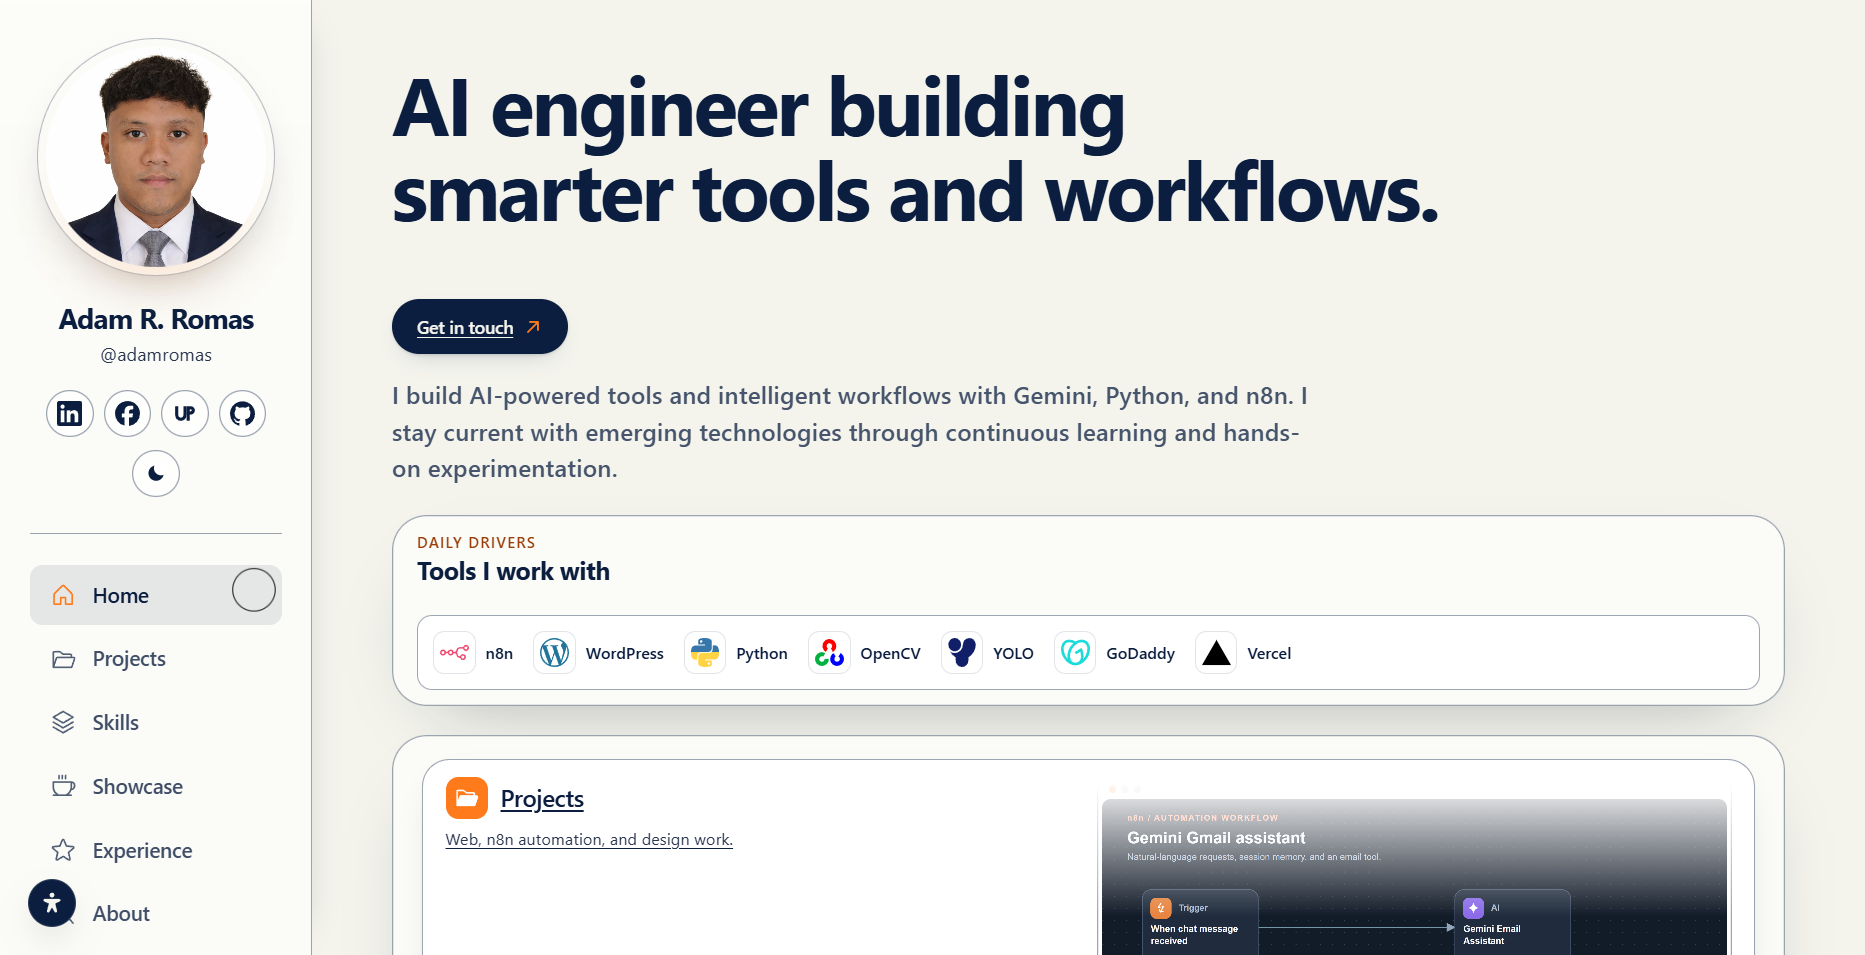
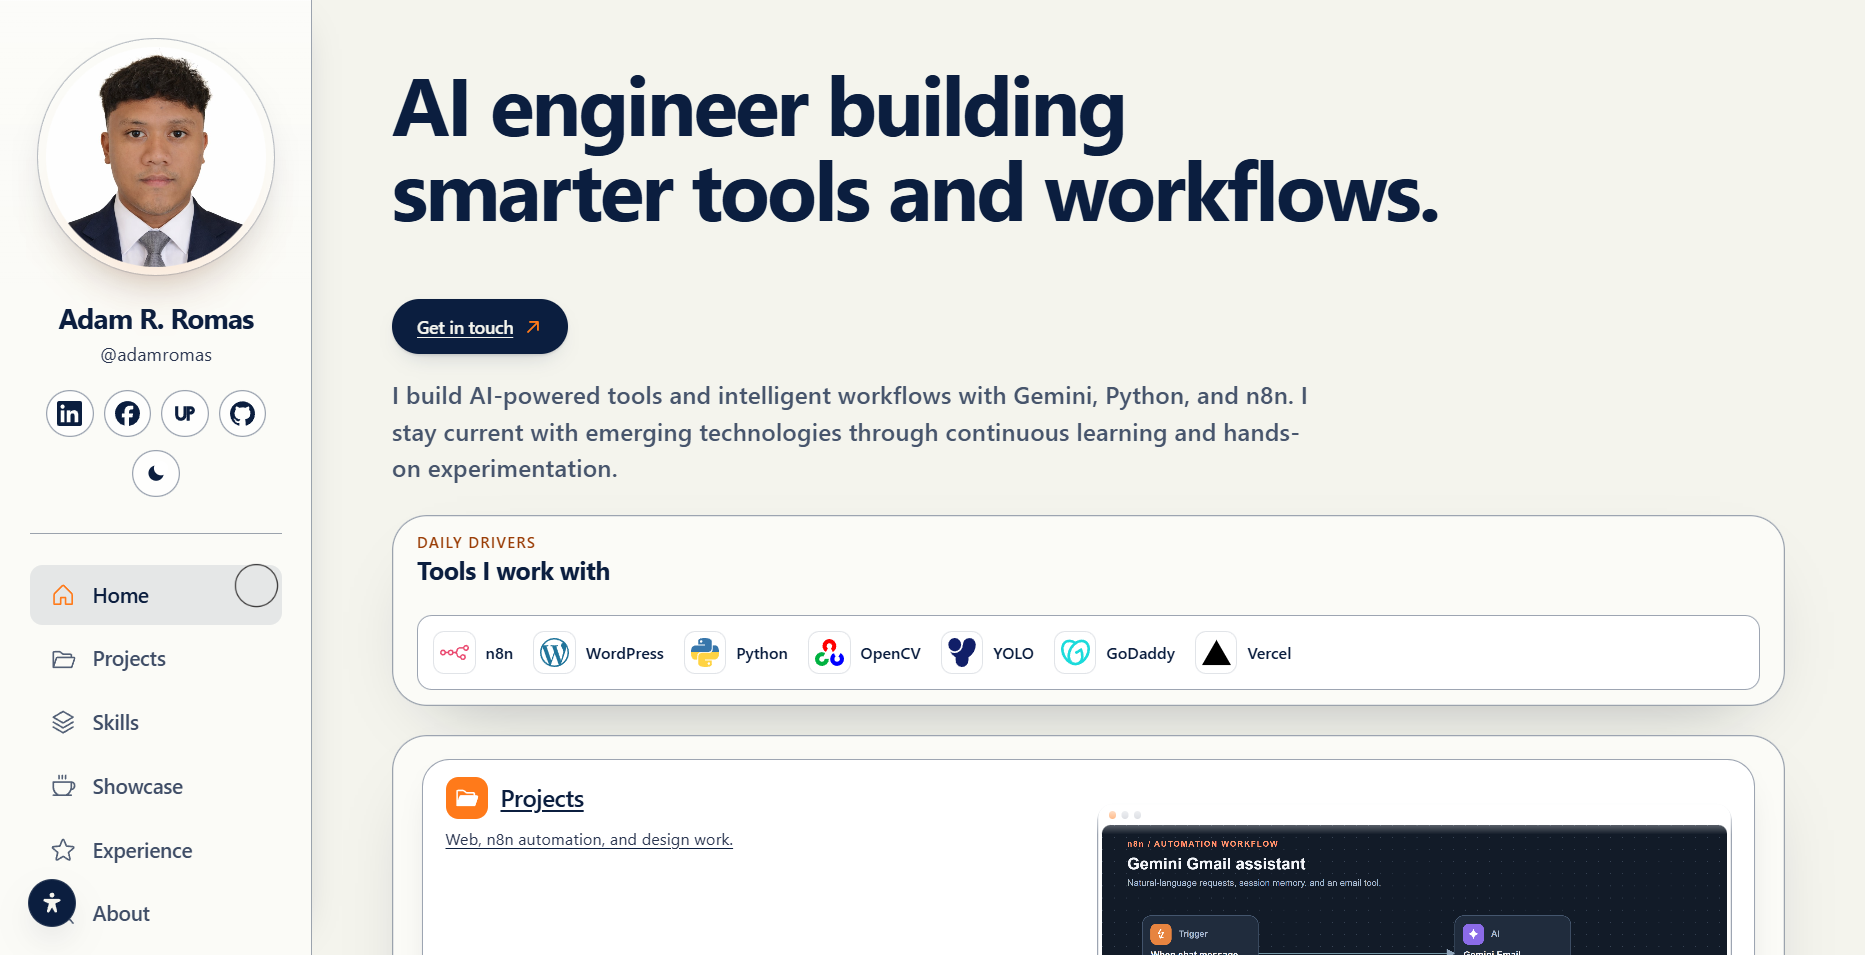
Redesign About as Japanese-inspired bento and compact Home cards

Changed region(s): [[0.5909, 0.8199, 0.933, 1.0], [0.1244, 0.577, 0.1555, 0.6377]]

diff --git a/src/styles/about-bento.css b/src/styles/about-bento.css
@@ -1,0 +1,86 @@
+/* Warm paper, quiet ink, a small vermilion seal, and content-sized compartments. */
+.about-page { display: flex; height: auto; min-height: 100%; }
+.about-bento { display: grid; grid-template-columns: repeat(6, minmax(0, 1fr)); gap: 18px; align-items: stretch; }
+.about-card {
+  position: relative;
+  min-width: 0;
+  margin: 0;
+  padding: clamp(20px, 2.1vw, 32px);
+  border: 1px solid var(--line);
+  border-radius: 22px;
+  background: var(--surface-card);
+  color: var(--navy);
+  box-shadow: 0 12px 32px -24px rgba(6, 12, 26, .35);
+  display: flex;
+  flex-direction: column;
+  align-items: flex-start;
+  gap: 14px;
+  overflow-wrap: anywhere;
+}
+.about-card__label { display: flex; align-items: center; justify-content: space-between; gap: 16px; width: 100%; font-size: 11px; font-weight: 600; letter-spacing: .08em; text-transform: uppercase; color: var(--orange-ink); }
+.about-card h2 { font-size: clamp(20px, 1.5vw, 27px); line-height: 1.3; letter-spacing: -.025em; }
+.about-card p { margin: 0; font-size: 14px; line-height: 1.75; color: var(--muted); }
+.about-card--intro { grid-column: span 4; background: linear-gradient(135deg, var(--surface-card), var(--surface-glass)); }
+.about-card .about-intro__title { max-width: 25ch; font-size: clamp(28px, 2.5vw, 44px); line-height: 1.13; }
+.about-intro__body { max-width: 70ch; }
+.about-stamp { display: grid; place-items: center; flex: none; width: 36px; height: 36px; border: 1px solid #B84938; border-radius: 9px; color: #B84938; font-size: 24px; font-weight: 500; line-height: 1; }
+[data-theme='dark'] .about-stamp { color: #FF9D86; border-color: #FF9D86; }
+.about-card__actions { display: flex; flex-wrap: wrap; align-items: center; gap: 16px; padding-top: 4px; }
+.about-action, .about-text-link { display: inline-flex; align-items: center; justify-content: center; gap: 8px; font-size: 13px; font-weight: 600; text-decoration: none; color: var(--navy); }
+.about-action { min-height: 44px; padding: 10px 16px; border: 1px solid var(--line-strong); border-radius: 12px; background: var(--surface-card); }
+.about-action:hover, .about-text-link:hover { color: var(--orange-ink); border-color: var(--orange); }
+.about-action:focus-visible, .about-text-link:focus-visible { outline: 2px solid var(--orange); outline-offset: 3px; }
+.about-card--portrait { grid-column: span 2; grid-row: span 2; justify-content: center; gap: 20px; }
+.about-portrait__frame { width: 100%; display: grid; place-items: center; padding: 12px; border-radius: 16px; background: radial-gradient(ellipse at bottom right, rgba(255, 122, 26, .12), transparent 70%), var(--tint); }
+.about-portrait__frame img { display: block; width: 100%; max-width: 240px; height: auto; max-height: 360px; object-fit: contain; border-radius: 12px; border: 4px solid var(--paper); }
+.about-card--portrait figcaption { display: flex; flex-direction: column; gap: 7px; font-size: 13px; color: var(--muted); }
+.about-card--portrait figcaption strong { color: var(--navy); font-size: 18px; }
+.about-portrait__location { display: flex; align-items: center; gap: 5px; font-size: 11px; }
+.about-card--focus, .about-card--education, .about-card--credentials { grid-column: span 2; }
+.about-card--education { background: linear-gradient(145deg, var(--surface-card), color-mix(in srgb, var(--cream) 95%, var(--orange))); }
+.about-tool-row { display: flex; flex-wrap: wrap; align-items: center; gap: 8px; margin-top: auto; padding-top: 8px; }
+.about-tool { display: grid; place-items: center; width: 36px; height: 36px; border: 1px solid rgba(11, 30, 63, .13); border-radius: 10px; background: #fff; }
+.about-tool-row__note { flex-basis: 100%; color: var(--muted); font-size: 11px; padding-top: 3px; }
+.about-card__symbol { color: var(--orange-ink); }
+.about-facts { display: flex; flex-wrap: wrap; gap: 8px 14px; font-size: 12px; color: var(--muted); }
+.about-facts strong { color: var(--navy); }
+.about-card__note { color: var(--orange-ink); font-size: 12px; }
+.about-card--skills { grid-column: span 4; }
+.about-capabilities { display: grid; grid-template-columns: repeat(2, minmax(0, 1fr)); gap: 18px; list-style: none; padding: 0; margin: 2px 0 0; width: 100%; }
+.about-capabilities li { display: flex; align-items: flex-start; gap: 10px; min-width: 0; }
+.about-capability__icon { flex: none; color: var(--orange-ink); padding-top: 3px; }
+.about-capabilities li > span:last-child { display: flex; flex-direction: column; gap: 5px; }
+.about-capabilities strong { font-size: 13px; line-height: 1.5; }
+.about-capabilities li > span > span { font-size: 12px; line-height: 1.6; color: var(--muted); }
+.about-certificates { list-style: none; padding: 0; margin: 0; display: flex; flex-direction: column; gap: 14px; }
+.about-certificates li { display: flex; align-items: flex-start; gap: 8px; font-size: 12px; line-height: 1.65; color: var(--muted); }
+.about-certificates svg { flex: none; color: var(--orange-ink); margin-top: 2px; }
+.about-card--connect { grid-column: 1 / -1; flex-direction: row; align-items: center; justify-content: space-between; gap: 20px; }
+.about-card--connect h2 { margin-top: 8px; }
+
+/* A bounded reel keeps its siblings from stretching to the full image stack. */
+.home .bento__reel { flex: none; height: 210px; min-height: 0; max-height: 240px; align-self: center; }
+.home .bento__reviews { flex: none; height: 180px; min-height: 0; align-self: center; }
+.home .bento__fan { align-content: center; gap: 12px; }
+.bento__portrait-note { grid-row: 2; color: var(--muted); font-size: 11px; text-align: center; line-height: 1.5; }
+.bento__contact-mark { color: var(--orange-ink); }
+.bento__contact-note { font-size: 12px; color: var(--muted); text-align: center; }
+.home .bento__desc { overflow-wrap: anywhere; }
+
+@media (max-width: 1199px) {
+  .about-bento { grid-template-columns: repeat(2, minmax(0, 1fr)); }
+  .about-card--intro, .about-card--skills { grid-column: span 2; }
+  .about-card--portrait { grid-column: span 1; grid-row: span 2; }
+  .about-card--focus, .about-card--education { grid-column: span 1; }
+  .about-card--credentials { grid-column: span 2; }
+}
+:root[data-a11y-text] .about-bento { grid-template-columns: repeat(2, minmax(0, 1fr)); }
+:root[data-a11y-text] .about-card--intro, :root[data-a11y-text] .about-card--skills { grid-column: span 2; }
+:root[data-a11y-text] .about-card--portrait, :root[data-a11y-text] .about-card--focus, :root[data-a11y-text] .about-card--education { grid-column: span 1; }
+:root[data-a11y-text] .about-card--credentials { grid-column: span 2; }
+@media (max-width: 639px) {
+  .about-bento, :root[data-a11y-text] .about-bento { grid-template-columns: minmax(0, 1fr); gap: 14px; }
+  .about-bento .about-card, :root[data-a11y-text] .about-bento .about-card { grid-column: 1; grid-row: auto; }
+  .about-capabilities { grid-template-columns: minmax(0, 1fr); }
+  .about-card--connect { flex-direction: column; align-items: flex-start; }
+}

diff --git a/src/components/AboutBento.tsx b/src/components/AboutBento.tsx
@@ -1,0 +1,87 @@
+import { Link } from 'react-router-dom'
+import { ArrowUpRight, Code, FlowArrow, GraduationCap, MapPin, Robot, SealCheck, Wrench } from '@/components/slab'
+import { profile } from '@/data/profile'
+import PageBack from './PageBack'
+
+const capabilities = [
+  { title: 'AI & computer vision', detail: 'Gemini · Python · OpenCV · YOLO', Icon: Robot },
+  { title: 'Workflow automation', detail: 'n8n · Gmail · Google Sheets · Drive', Icon: FlowArrow },
+  { title: 'Web & deployment', detail: 'WordPress · GoDaddy · Vercel', Icon: Code },
+  { title: 'IT support', detail: 'Hardware · software · networks', Icon: Wrench },
+]
+
+export default function AboutBento() {
+  return (
+    <section className="pgrid about-page" aria-labelledby="about-title">
+      <header className="pgrid__head">
+        <PageBack />
+        <span className="pgrid__eyebrow">About / A little more about me</span>
+        <h1 className="pgrid__title" id="about-title">Hi, I’m {profile.firstName}.</h1>
+        <p className="pgrid__lede">{profile.role} · {profile.location}</p>
+      </header>
+
+      <div className="about-bento">
+        <article className="about-card about-card--intro">
+          <div className="about-card__label"><span>01 / Introduction</span><span className="about-stamp" aria-hidden="true">学</span></div>
+          <h2 className="about-intro__title">{profile.displayName.line1} {profile.displayName.line2}</h2>
+          <p className="about-intro__body">{profile.hero.body}</p>
+          <div className="about-card__actions">
+            <a className="about-action" href={profile.resumeSrc} download="Adam-Romas-Resume-2026.pdf">Download my resume <ArrowUpRight size={16} aria-hidden="true" /></a>
+            <Link className="about-text-link" to="/projects">Explore my work <ArrowUpRight size={15} aria-hidden="true" /></Link>
+          </div>
+        </article>
+
+        <figure className="about-card about-card--portrait">
+          <div className="about-portrait__frame"><img src={profile.hero.portraitSrc} alt={profile.hero.portraitAlt} width={768} height={1152} decoding="async" /></div>
+          <figcaption>
+            <strong>{profile.name}</strong>
+            <span>{profile.role}</span>
+            <span className="about-portrait__location"><MapPin size={14} aria-hidden="true" /> Dumaguete City, Philippines</span>
+          </figcaption>
+        </figure>
+
+        <article className="about-card about-card--focus">
+          <span className="about-card__label">02 / My focus</span>
+          <h2>Useful AI. Connected workflows.</h2>
+          <p>I work on email assistants, searchable media libraries, and automations that connect everyday tools.</p>
+          <div className="about-tool-row" aria-label="Core tools">
+            {['n8n', 'python', 'opencv'].map(tool => <span key={tool} className="about-tool"><img src={`/icons/tools/${tool}.svg`} alt={tool === 'opencv' ? 'OpenCV' : tool === 'python' ? 'Python' : 'n8n'} width={24} height={24} /></span>)}
+            <span className="about-tool-row__note">Build. Test. Keep learning.</span>
+          </div>
+        </article>
+
+        <article className="about-card about-card--education">
+          <span className="about-card__label">03 / Foundation</span>
+          <GraduationCap className="about-card__symbol" size={28} weight="duotone" aria-hidden="true" />
+          <h2>Foundation University</h2>
+          <p>BS in Information Technology</p>
+          <div className="about-facts"><span>Graduated 2025</span><strong>GWA 1.6</strong></div>
+          <span className="about-card__note">Dean’s Honors List</span>
+        </article>
+
+        <article className="about-card about-card--skills">
+          <span className="about-card__label">04 / What I work with</span>
+          <h2>A practical toolkit.</h2>
+          <ul className="about-capabilities">
+            {capabilities.map(({ Icon, title, detail }) => (
+              <li key={title}><span className="about-capability__icon"><Icon size={21} weight="duotone" aria-hidden="true" /></span><span><strong>{title}</strong><span>{detail}</span></span></li>
+            ))}
+          </ul>
+        </article>
+
+        <article className="about-card about-card--credentials">
+          <span className="about-card__label">05 / Continued learning</span>
+          <h2>Learning with purpose.</h2>
+          <ul className="about-certificates">
+            {['Certified Artificial Intelligence Professional (CAIP)', 'PhilNITS Certification — Passer', 'Cisco Cyber Threat Management'].map(certificate => <li key={certificate}><SealCheck size={19} weight="duotone" aria-hidden="true" /><span>{certificate}</span></li>)}
+          </ul>
+        </article>
+
+        <div className="about-card about-card--connect">
+          <div><span className="about-card__label">Let’s connect</span><h2>Have something in mind?</h2></div>
+          <Link className="about-action" to="/contact">Start a conversation <ArrowUpRight size={16} aria-hidden="true" /></Link>
+        </div>
+      </div>
+    </section>
+  )
+}

diff --git a/src/components/AboutGrid.tsx b/src/components/AboutGrid.tsx
@@ -1,109 +1,1 @@
-import { GraduationCap, MapPin, SealCheck } from '@/components/slab'
-import { profile } from '@/data/profile'
-
-type Capability = {
-  index: string
-  title: string
-}
-
-const CAPABILITIES: Capability[] = [
-  { index: '01', title: 'Web development · WordPress' },
-  { index: '02', title: 'AI & computer vision · Python, OpenCV, YOLO' },
-  { index: '03', title: 'IT support · hardware, software & networks' },
-  { index: '04', title: 'Customer support · troubleshooting & documentation' },
-  { index: '05', title: 'n8n automation · Gemini, Gmail, Sheets & Drive' },
-]
-
-export default function AboutGrid() {
-  return (
-    <section className="pgrid agrid" aria-labelledby="about-title">
-      <header className="pgrid__head">
-        <span className="pgrid__eyebrow">About</span>
-        <h1 className="pgrid__title" id="about-title">
-          {`Hi, I’m ${profile.firstName}.`}
-        </h1>
-        <p className="pgrid__lede">
-          IT graduate, web developer, and technology support professional based in Dumaguete City.
-        </p>
-      </header>
-
-      <div className="home__glass agrid__glass">
-        <div className="agrid__copy">
-          <p className="agrid__lead">
-            I make technology useful and approachable.
-            <span> From responsive websites to AI-powered media tools and dependable IT support.</span>
-          </p>
-
-          <p className="agrid__note">
-            I earned a BS in Information Technology from <strong>Foundation University</strong> in
-            2025. My projects include a{' '}
-            <a className="agrid__link" href="https://5splumbing.com/" target="_blank" rel="noopener noreferrer">
-              responsive WordPress site for 5S Plumbing
-            </a>{' '}
-            and FU Media, an AI-assisted image and video management capstone. I also hold the
-            Certified Artificial Intelligence Professional, PhilNITS, and Cisco Cyber Threat
-            Management certificates.
-          </p>
-
-          <a className="agrid__resume" href={profile.resumeSrc} download="Adam-Romas-Resume-2026.pdf">
-            Download my resume <span aria-hidden="true">↗</span>
-          </a>
-
-          <ul className="agrid__caps" role="list">
-            {CAPABILITIES.map((capability) => (
-              <li key={capability.index} className="agrid__cap">
-                <span className="agrid__cap-title">{capability.title}</span>
-                <span className="agrid__cap-index" aria-hidden="true">
-                  {capability.index}
-                </span>
-              </li>
-            ))}
-          </ul>
-
-          <div className="agrid__bar">
-            <span className="agrid__cell">
-              <span className="agrid__cell-mark">
-                <SealCheck size={18} weight="duotone" aria-hidden="true" />
-              </span>
-              <span className="agrid__cell-copy">
-                <span className="agrid__cell-title">Certified AI Professional</span>
-                <span className="agrid__cell-meta">CAIP certification</span>
-              </span>
-            </span>
-
-            <span className="agrid__cell">
-              <span className="agrid__cell-mark">
-                <MapPin size={16} weight="fill" aria-hidden="true" />
-              </span>
-              <span className="agrid__cell-copy">
-                <span className="agrid__cell-title">{profile.location}</span>
-                <span className="agrid__cell-meta">Negros Oriental · Philippines</span>
-              </span>
-            </span>
-
-            <span className="agrid__cell agrid__cell--wide">
-              <span className="agrid__cell-mark">
-                <GraduationCap size={18} weight="duotone" aria-hidden="true" />
-              </span>
-              <span className="agrid__cell-copy">
-                <span className="agrid__cell-title">Foundation University</span>
-                <span className="agrid__cell-meta">BS Information Technology · 2025 · GWA 1.6</span>
-              </span>
-            </span>
-          </div>
-        </div>
-
-        <div className="agrid__portrait">
-          <img
-            src={profile.hero.portraitSrc}
-            alt={profile.hero.portraitAlt}
-            loading="eager"
-            decoding="async"
-            width={768}
-            height={1152}
-          />
-        </div>
-      </div>
-    </section>
-  )
-}
+export { default } from './AboutBento'

diff --git a/src/components/HomeBento.tsx b/src/components/HomeBento.tsx
@@ -65,11 +65,12 @@ export default function HomeBento() {
       </Link>
 
       <Link to="/about" className="bento__card bento__card--about">
-        <CardHead Icon={User} title="About" desc="BSIT graduate based in Dumaguete City." />
+        <CardHead Icon={User} title="About" desc={profile.role} />
         <div className="bento__media bento__fan" aria-hidden="true">
           <span className="bento__photo">
             <img src={profile.avatarSrc} alt="" loading="lazy" decoding="async" />
           </span>
+          <span className="bento__portrait-note">Foundation University · BSIT</span>
         </div>
       </Link>
 
@@ -120,6 +121,8 @@ export default function HomeBento() {
       <Link to="/contact" className="bento__card bento__card--creds">
         <CardHead Icon={EnvelopeSimple} title="Contact" desc={profile.email} />
         <div className="bento__media bento__badge">
+          <EnvelopeSimple className="bento__contact-mark" size={40} weight="duotone" aria-hidden="true" />
+          <span className="bento__contact-note">Let’s build something useful.</span>
           <span className="bento__badge-tag">{profile.phone}</span>
         </div>
       </Link>

diff --git a/src/main.tsx b/src/main.tsx
@@ -34,7 +34,6 @@ import './styles/projects-grid.css'
 import './styles/services-grid.css'
 import './styles/showcase.css'
 import './styles/testimonials-grid.css'
-import './styles/about-grid.css'
 import './styles/contact-grid.css'
 import './styles/boot.css'
 import './styles/credentials.css'
@@ -47,6 +46,7 @@ import './styles/apple.css'
 import './styles/mobile-pass.css'
 import './styles/portfolio-ui.css'
 import './styles/responsive-accessibility.css'
+import './styles/about-bento.css'
 // Last: the perf tiers only ever turn things OFF, so they must win.
 import './styles/perf.css'
 

diff --git a/README.md b/README.md
@@ -5,6 +5,7 @@ Adam R. Romas's personal portfolio, focused on AI engineering, n8n automation, w
 ## Features
 
 - Responsive desktop and mobile layouts with light and dark themes.
+- Japanese-inspired About bento with the same AI introduction as Home, education, credentials, and a practical toolkit.
 - Accessibility controls for enlarged text, high contrast, reduced motion, and underlined links.
 - Colored tool icons, including Vercel for project deployment.
 - Project galleries with back/close controls, zoom, and scroll restoration.
